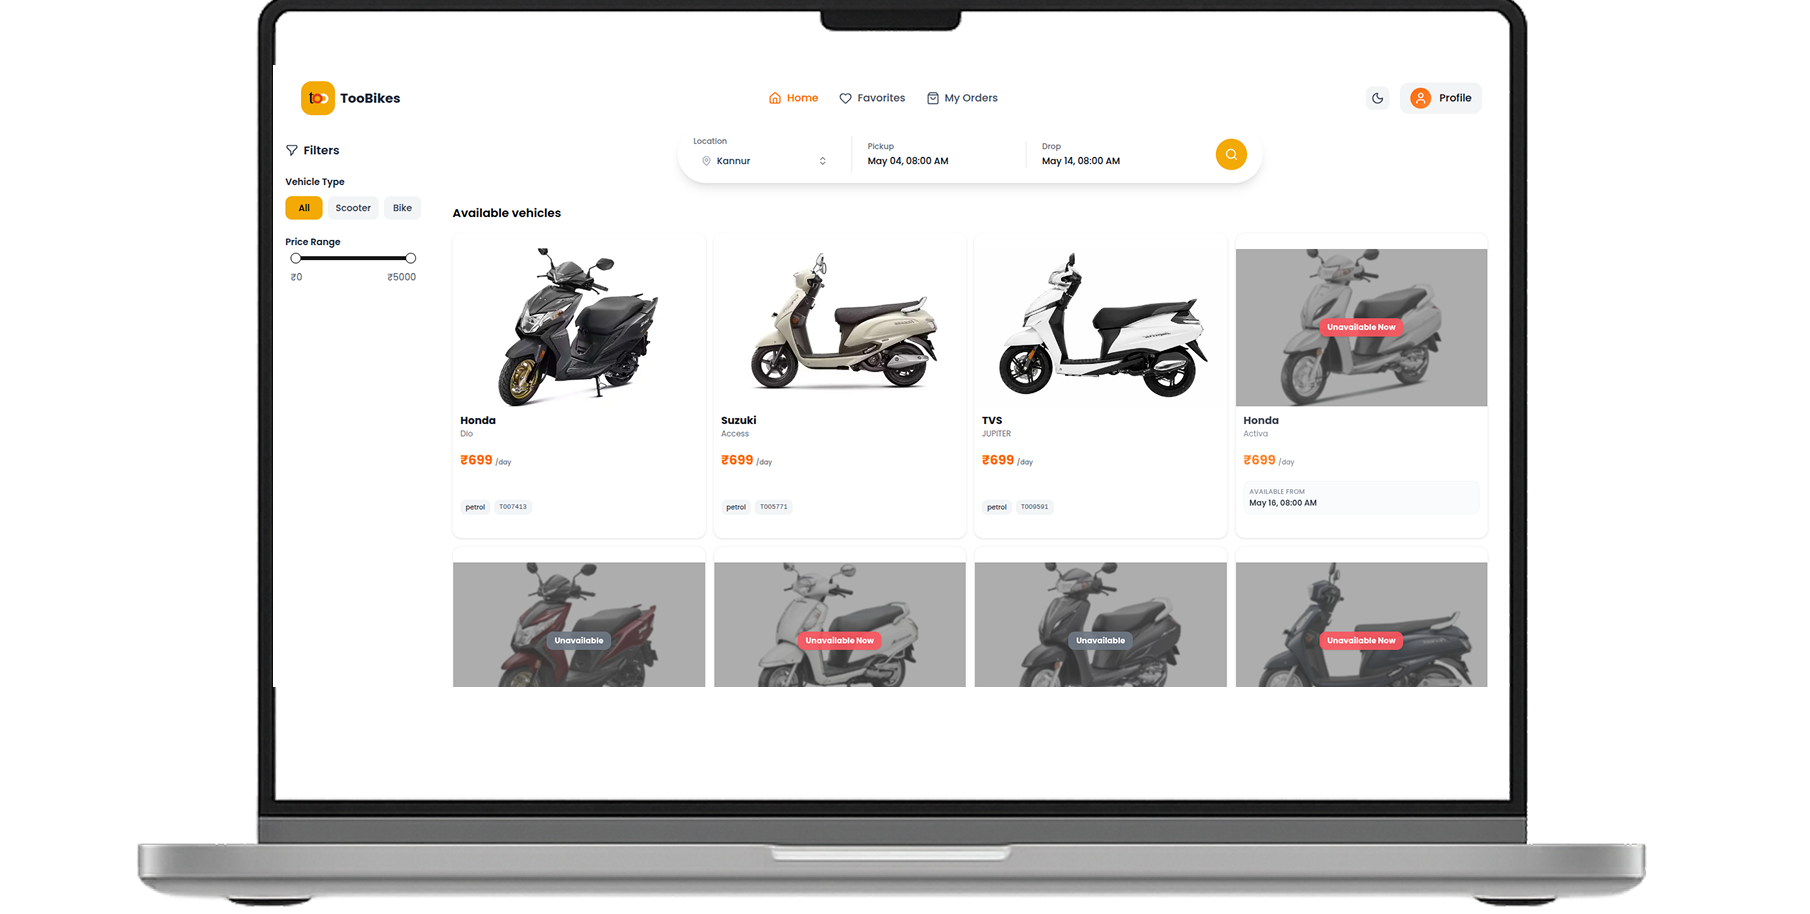
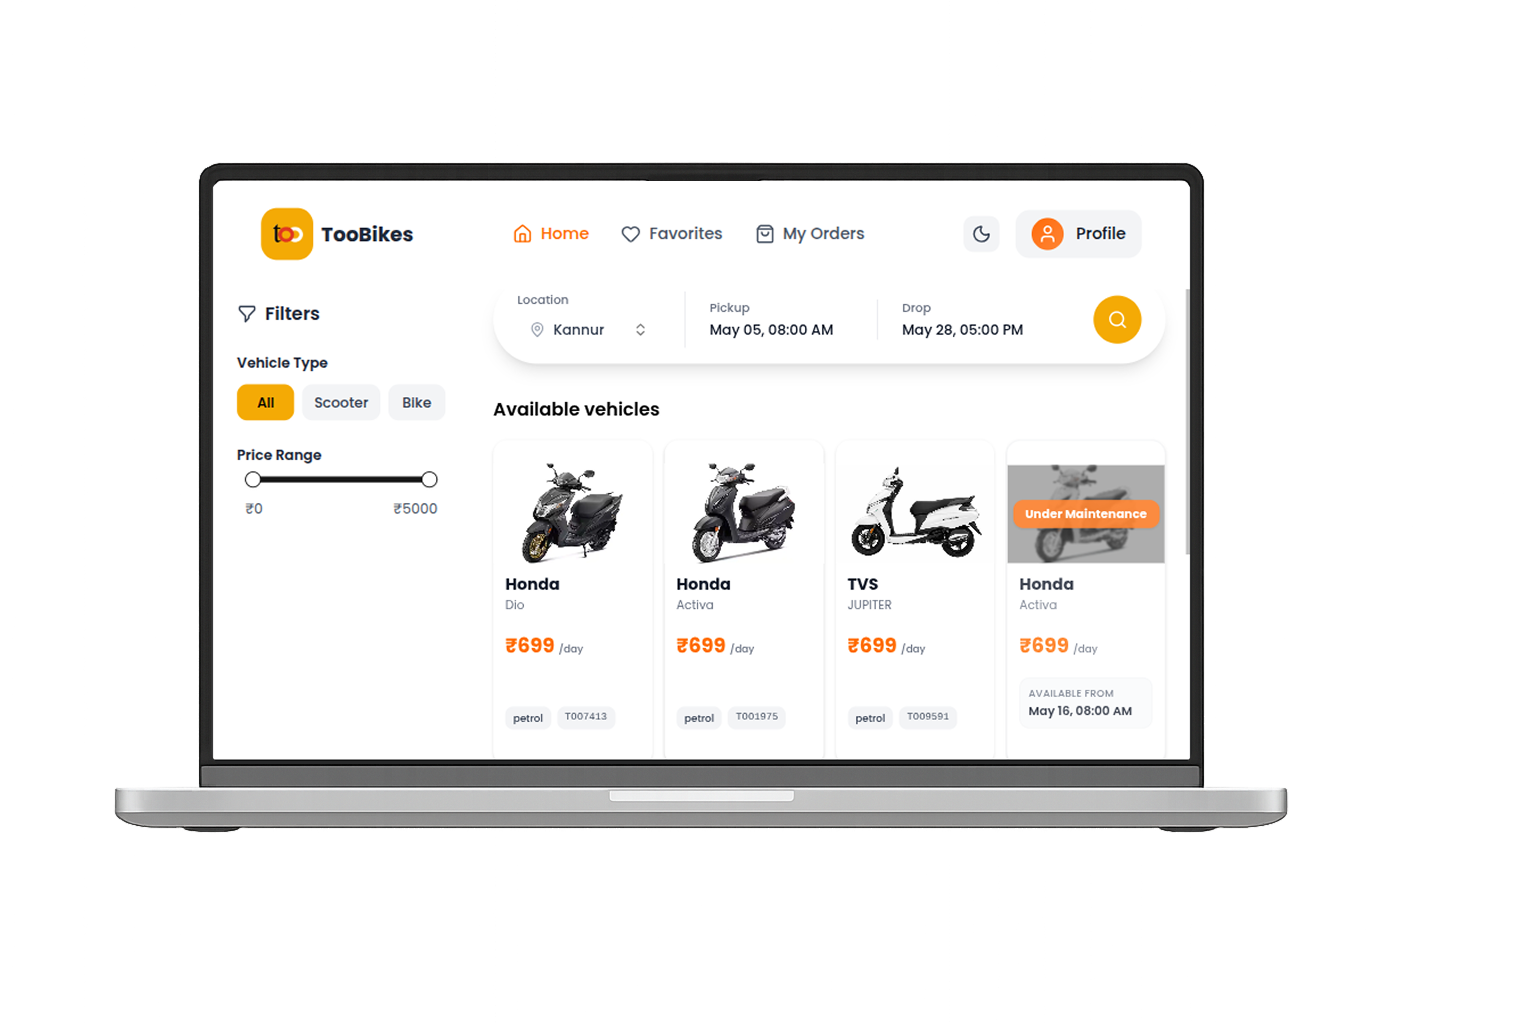
feat: added some more projects to the portfolio

diff --git a/src/pages/Portfolio.tsx b/src/pages/Portfolio.tsx
@@ -1,12 +1,12 @@
 "use client";
 
+import { ArrowUpRight } from "lucide-react";
 import { useState, useEffect, useRef } from "react";
 
 type Project = {
   title: string;
   description: string;
   tags: string[];
-  type: "client" | "partnership";
   platform: "web" | "mobile";
   mobile_image: string;
   desktop_image: string;
@@ -14,22 +14,121 @@ type Project = {
   live_link: string;
   year: string;
   industry: string;
+  completed:boolean
 };
 
 const projects: Project[] = [
   {
     title: "Toobikes",
     description:
-      "A scooty rental platform based in Kannur, Kerala. Built as a web application to manage bookings, real-time availability, and customer interactions — streamlining the rental experience end-to-end.",
+      "A scooty rental platform based in Kannur, Kerala. Built to handle bookings, real-time vehicle availability, and customer operations — giving operators full control over rentals while simplifying the booking experience for users.",
     tags: ["Booking system", "Rental", "Dashboard", "Admin panel"],
-    type: "client",
     platform: "web",
-    mobile_image: "/toobikes_mobile_image.png",
+    mobile_image: "/toobikes_mobile.png",
     desktop_image: "/toobikes_desktop.png",
     icon: "/toobikes_icon.png",
     live_link: "https://toobikes.in",
-    year: "2024",
+    year: "2026",
     industry: "Transport & Mobility",
+    completed: true,
+  },
+  {
+    title: "FarmSphere",
+    description:
+      "A SaaS-focused landing page designed for an agritech intelligence product. Built to clearly communicate complex data-driven farming insights, capture early adopters, and drive partnerships through high-conversion messaging.",
+    tags: ["Landing page", "AgriTech", "UI/UX", "Conversion focused"],
+    platform: "web",
+    mobile_image: "/farmsphere_mobile.png",
+    desktop_image: "/farmsphere_desktop.png",
+    icon: "/farmsphere_icon.png",
+    live_link: "https://farmsphere.in",
+    year: "2026",
+    industry: "AgriTech",
+    completed: true,
+  },
+  {
+    title: "Asairz",
+    description:
+      "An eCommerce platform focused on mobile covers and accessories. Built to support product browsing, streamlined checkout, and mobile-first shopping — targeting local demand in Kannur with a clean and conversion-driven interface.",
+    tags: ["Ecommerce", "Mobile-first", "Checkout", "Product catalog"],
+    platform: "web",
+    mobile_image: "/asairz_mobile.png",
+    desktop_image: "/asairz_desktop.png",
+    icon: "/asairz_icon.png",
+    live_link: "https://ciltriq.asairz.com",
+    year: "2026",
+    industry: "Ecommerce",
+    completed: false,
+  },
+  {
+    title: "Kannur Gardens",
+    description:
+      "A landing page for an event hall integrated with multiple booking aggregators. Built to showcase venue offerings, drive direct inquiries, and reduce dependency on third-party platforms through clear positioning and lead capture.",
+    tags: ["Landing page", "Event hall", "Lead generation", "Aggregators"],
+    platform: "web",
+    mobile_image: "/kannurgardens_mobile.png",
+    desktop_image: "/kannurgardens_desktop.png",
+    icon: "/kannurgardens_icon.png",
+    live_link: "https://kannurgardens.vercel.app",
+    year: "2026",
+    industry: "Hospitality",
+    completed: true,
+  },
+  {
+    title: "Repoclarity",
+    description:
+      "A developer tool that visualizes database architecture directly from code. Built to help engineers understand relationships, debug schema issues faster, and navigate complex systems through clear diagrammatic representations.",
+    tags: ["Dev tool", "Database", "Visualization", "Engineering"],
+    platform: "web",
+    mobile_image: "/repoclarity_mobile.png",
+    desktop_image: "/repoclarity_desktop.png",
+    icon: "/cq_icon.png",
+    live_link: "https://repoclarity.com",
+    year: "2026",
+    industry: "Developer Tools",
+    completed: true,
+  },
+  {
+    title: "Kasargod Sports City",
+    description:
+      "A digital platform for a multi-sport facility, designed to manage bookings, showcase available sports infrastructure, and streamline customer engagement. Built to handle scheduling, membership flows, and inquiries — improving operational efficiency while increasing facility utilization.",
+    tags: ["Sports facility", "Booking system", "Membership", "Operations"],
+    platform: "web",
+    mobile_image: "/kasaragodsportscity_mobile.png",
+    desktop_image: "/kasaragodsportscity_desktop.png",
+    icon: "/kasaragodsportscity_icon.png",
+    live_link: "https://www.kasaragodsportscity.com/",
+    year: "2026",
+    industry: "Sports & Recreation",
+    completed: true,
+  },
+  {
+    title: "Nadan Curry Chatti Hotel",
+    description:
+      "A digital presence for a traditional Kerala restaurant focused on increasing local discovery and direct customer engagement. Built to highlight menu offerings, improve search visibility, and drive dine-in and takeaway conversions through a clean, mobile-first experience.",
+    tags: ["Restaurant", "Local business", "SEO", "Conversion"],
+    platform: "web",
+    mobile_image: "/nadancurrychatti_mobile.png",
+    desktop_image: "/nadancurrychatti_desktop.png",
+    icon: "/cq_icon.png",
+    live_link: "https://www.kasaragodsportscity.com/",
+    year: "2026",
+    industry: "Food & Hospitality",
+    completed: true,
+  },
+  {
+    title: "Zukomi",
+    description:
+      "A modern spoken English learning platform built on an MLM-driven growth model. Designed to enable users to learn communication skills while earning through referrals — combining structured learning content, progress tracking, and network-based expansion for rapid user acquisition.",
+    tags: ["EdTech", "MLM", "Learning platform", "Growth system"],
+    platform: "web",
+    mobile_image: "/zukomi_mobile.png",
+    desktop_image: "/zukomi_desktop.png",
+    icon: "/zukomi_icon.png",
+    live_link: "https://www.zukomi.com/",
+    year: "2026",
+    industry: "EdTech",
+    completed: true,
   },
 ];
 
@@ -37,7 +136,6 @@ export default function Projects() {
   const [activeType, setActiveType] = useState<"client" | "partnership">("client");
   const [activePlatform, setActivePlatform] = useState<"all" | "web" | "mobile">("all");
 
-  // 👇 animation state per card
   const [visible, setVisible] = useState<boolean[]>([]);
   const refs = useRef<(HTMLDivElement | null)[]>([]);
 
@@ -69,9 +167,8 @@ export default function Projects() {
   }, []);
 
   const filteredProjects = projects.filter((p) => {
-    const typeMatch = p.type === activeType;
     const platformMatch = activePlatform === "all" || p.platform === activePlatform;
-    return typeMatch && platformMatch;
+    return platformMatch;
   });
 
   const stats = [
@@ -81,35 +178,19 @@ export default function Projects() {
   ];
 
   return (
-    <section id="projects" className="py-20 px-6">
-      <div className="max-w-6xl mx-auto space-y-8">
-
-        {/* TYPE FILTER */}
-        <div className="flex gap-2 flex-wrap items-center">
-          <span className="text-xs uppercase tracking-widest text-muted-foreground mr-1">Type</span>
-          {(["client", "partnership"] as const).map((type) => (
-            <button
-              key={type}
-              onClick={() => setActiveType(type)}
-              className={`px-4 py-2 rounded-full text-sm border transition ${
-                activeType === type
-                  ? "bg-foreground text-background border-foreground"
-                  : "bg-transparent text-muted-foreground border-border hover:border-foreground/40"
-              }`}
-            >
-              {type === "client" ? "Client projects" : "Partnership projects"}
-            </button>
-          ))}
-        </div>
+    <section id="projects" className="py-12 sm:py-16 lg:py-20 px-4 sm:px-6">
+      <div className="max-w-6xl mx-auto space-y-6 sm:space-y-8">
 
         {/* PLATFORM FILTER */}
         <div className="flex gap-2 flex-wrap items-center">
-          <span className="text-xs uppercase tracking-widest text-muted-foreground mr-1">Platform</span>
+          <span className="text-xs uppercase tracking-widest text-muted-foreground mr-1">
+            Platform
+          </span>
           {(["all", "web", "mobile"] as const).map((platform) => (
             <button
               key={platform}
               onClick={() => setActivePlatform(platform)}
-              className={`px-4 py-1.5 text-sm rounded-full border transition ${
+              className={`px-3 sm:px-4 py-1.5 text-xs sm:text-sm rounded-full border transition ${
                 activePlatform === platform
                   ? "bg-foreground text-background border-foreground"
                   : "bg-transparent text-muted-foreground border-border hover:border-foreground/40"
@@ -133,10 +214,10 @@ export default function Projects() {
                   visible[i] ? "opacity-100 translate-y-0" : "opacity-0 translate-y-10"
                 }`}
               >
-                <div className="grid grid-cols-1 lg:grid-cols-2 min-h-[360px]">
+                <div className="grid grid-cols-1 lg:grid-cols-2 min-h-[280px] sm:min-h-[320px] lg:min-h-[360px]">
 
                   {/* VISUAL SIDE */}
-                  <div className="relative overflow-hidden border-b lg:border-b-0 lg:border-r border-border min-h-[240px] lg:min-h-auto">
+                  <div className="relative overflow-hidden border-b lg:border-b-0 lg:border-r border-border min-h-[200px] sm:min-h-[240px]">
 
                     {/* DESKTOP */}
                     <img
@@ -151,7 +232,7 @@ export default function Projects() {
 
                     {/* MOBILE */}
                     <div
-                      className={`absolute bottom-4 right-[-60px] md:right-[-60px] w-48 md:w-64 transition-all duration-700 delay-150 ${
+                      className={`absolute bottom-4 sm:bottom-10 lg:bottom-16 right-[-20px] sm:right-[-40px] lg:right-[-60px] w-28 sm:w-40 md:w-52 lg:w-64 transition-all duration-700 delay-150 ${
                         visible[i]
                           ? "translate-x-0 opacity-100"
                           : "translate-x-12 opacity-0"
@@ -160,22 +241,22 @@ export default function Projects() {
                       <img
                         src={project.mobile_image}
                         alt={`${project.title} mobile`}
-                        className="w-full h-auto object-cover"
+                        className="w-full h-auto object-contain"
                       />
                     </div>
                   </div>
 
                   {/* CONTENT */}
                   <div
-                    className={`p-8 flex flex-col justify-between transition-all duration-700 delay-200 ${
+                    className={`p-5 sm:p-6 lg:p-8 flex flex-col justify-between transition-all duration-700 delay-200 ${
                       visible[i]
                         ? "opacity-100 translate-y-0"
                         : "opacity-0 translate-y-6"
                     }`}
                   >
                     <div>
-                      <div className="flex items-center gap-3 mb-5">
-                        <div className="w-9 h-9 rounded-lg border border-border overflow-hidden flex-shrink-0 bg-muted">
+                      <div className="flex items-center gap-3 mb-4 sm:mb-5">
+                        <div className="w-8 h-8 sm:w-9 sm:h-9 rounded-lg border border-border overflow-hidden flex-shrink-0 bg-muted">
                           <img
                             src={project.icon}
                             alt={`${project.title} icon`}
@@ -189,11 +270,11 @@ export default function Projects() {
                         </div>
                       </div>
 
-                      <h3 className="text-2xl font-bold tracking-tight mb-3">
+                      <h3 className="text-xl sm:text-2xl font-bold tracking-tight mb-3">
                         {project.title}
                       </h3>
 
-                      <p className="text-muted-foreground text-sm leading-relaxed mb-5">
+                      <p className="text-muted-foreground text-xs sm:text-sm leading-relaxed mb-5">
                         {project.description}
                       </p>
 
@@ -201,7 +282,7 @@ export default function Projects() {
                         {project.tags.map((tag, idx) => (
                           <span
                             key={idx}
-                            className="text-xs px-3 py-1 rounded-full border text-muted-foreground"
+                            className="text-xs px-2.5 sm:px-3 py-1 rounded-full border text-muted-foreground"
                           >
                             {tag}
                           </span>
@@ -209,19 +290,26 @@ export default function Projects() {
                       </div>
                     </div>
 
-                    <div className="flex items-center gap-3 flex-wrap">
-                      <a
-                        href={project.live_link}
-                        target="_blank"
-                        rel="noopener noreferrer"
-                        className="inline-flex items-center gap-2 px-5 py-2 rounded-full bg-foreground text-background text-sm font-medium hover:opacity-90 transition"
-                      >
-                        View live
-                      </a>
-                      <button className="px-5 py-2 rounded-full border text-sm text-muted-foreground hover:border-foreground/40 transition">
-                        Case study
-                      </button>
-                    </div>
+<div className="flex items-center gap-3 flex-wrap">
+  {project.completed ? (
+    <a
+      href={project.live_link}
+      target="_blank"
+      rel="noopener noreferrer"
+      className="group inline-flex items-center gap-3 px-5 py-2.5 rounded-full bg-black text-white text-sm font-medium transition hover:opacity-90"
+    >
+      <span>View Live</span>
+
+      <span className="flex items-center justify-center w-6 h-6 rounded-full bg-white text-black text-xs transition-transform group-hover:translate-x-0.5">
+        <ArrowUpRight className="h-4 w-4"/>
+      </span>
+    </a>
+  ) : (
+    <div className="inline-flex items-center gap-3 px-5 py-2.5 rounded-full bg-muted text-muted-foreground text-sm font-medium cursor-not-allowed opacity-70">
+      In Progress
+    </div>
+  )}
+</div>
                   </div>
 
                 </div>
